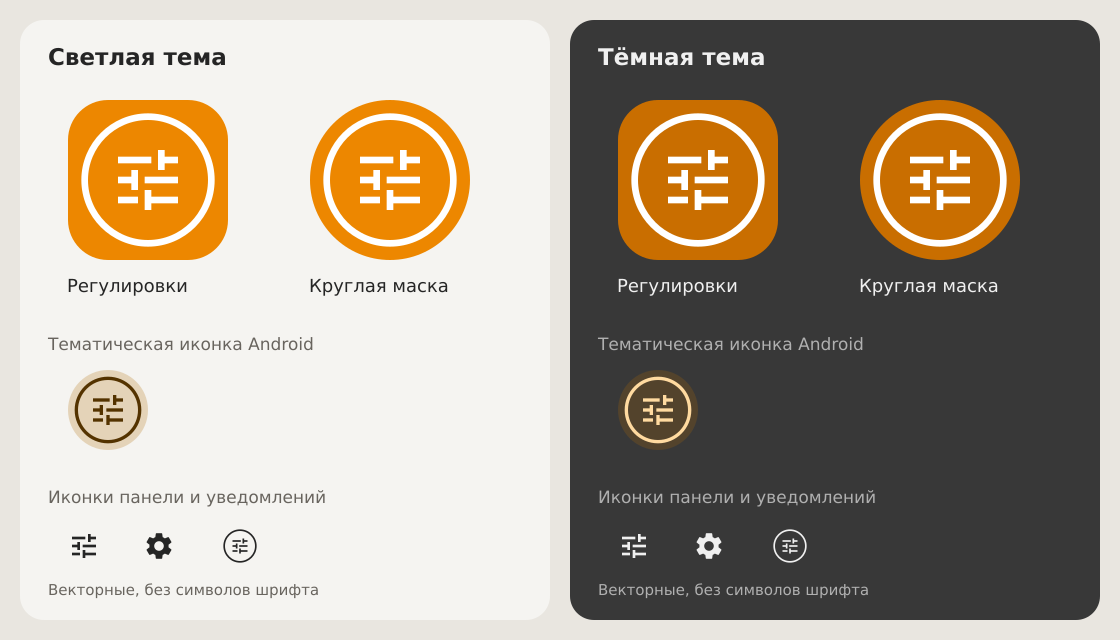
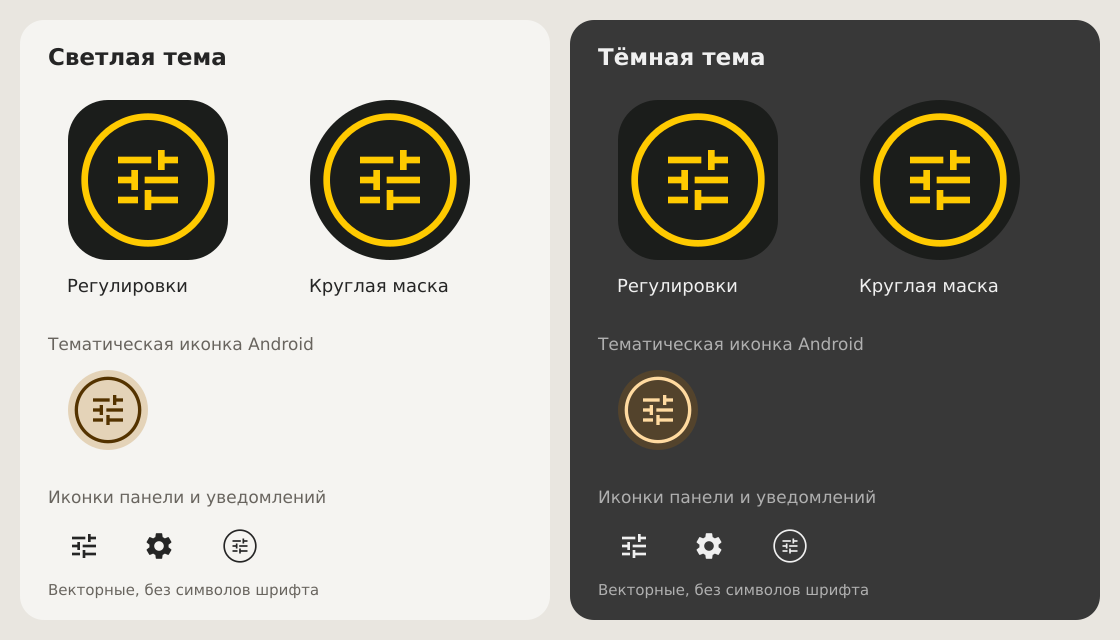
Подобраны цвета иконки Session EQ под оригинальный AIMP
Заменена оранжево-белая палитра обычной иконки на тёмный фон и жёлто-золотые регулировки в кольце. Размеры, контуры и отступы сохранены; системная монохромная маска выделена в отдельный ресурс. Обновлены превью и версия приложения до 0.4.2.

diff --git a/design/preview_icons.py b/design/preview_icons.py
@@ -13,7 +13,7 @@ res = root.parent / 'app/src/main/res'
 ns = '{http://schemas.android.com/apk/res/android}'
 
 def vector_paths(name, fill=None):
-    paths = []
+    colors={node.get('name'):node.text for node in ET.parse(res/'values/colors.xml').getroot()}
     def render(node):
         if node.tag == 'group':
             px,py=node.get(ns+'pivotX','0'),node.get(ns+'pivotY','0')
@@ -28,16 +28,13 @@ def vector_paths(name, fill=None):
             value = path.get(ns + android)
             if value:
                 if value == '#00000000': value = 'none'
-                elif value.startswith('@color/'): value = fill or '#252525'
+                elif value.startswith('@color/'): value = fill or colors[value.split('/')[1]]
                 elif fill and value == '#FFFFFF': value = fill
                 attrs[svg] = value
         return '<path ' + ' '.join(f'{k}="{html.escape(v)}"' for k,v in attrs.items()) + '/>'
     return render(ET.parse(res / 'drawable' / name).getroot())
 
 logo = vector_paths('ic_logo_foreground.xml')
-tune = vector_paths('ic_tune.xml', '#FFFFFF')
-ring = '<circle cx="54" cy="54" r="28.5" fill="none" stroke="white" stroke-width="3"/>'
-tune_logo = ring + '<g transform="translate(36 36) scale(1.5)">' + tune + '</g>'
 
 parts = ['<svg xmlns="http://www.w3.org/2000/svg" width="1120" height="640" viewBox="0 0 1120 640">',
          '<rect width="1120" height="640" fill="#E9E6E0"/>']
@@ -45,7 +42,7 @@ parts = ['<svg xmlns="http://www.w3.org/2000/svg" width="1120" height="640" view
 def text(s,x,y,size,fill,weight='400'):
     parts.append(f'<text x="{x}" y="{y}" font-family="DejaVu Sans,sans-serif" font-size="{size}" font-weight="{weight}" fill="{fill}">{html.escape(s)}</text>')
 
-for i, (bg,fg,muted,orange) in enumerate([('#F5F4F1','#252525','#68645E','#ED8700'),('#383838','#F0F0F0','#B0B0B0','#C96E00')]):
+for i, (bg,fg,muted,icon_background) in enumerate([('#F5F4F1','#252525','#68645E','#1B1D1B'),('#383838','#F0F0F0','#B0B0B0','#1B1D1B')]):
     x = 20+i*550
     parts.append(f'<rect x="{x}" y="20" width="530" height="600" rx="24" fill="{bg}"/>')
     text('Светлая тема' if i==0 else 'Тёмная тема',x+28,65,23,fg,'600')
@@ -54,7 +51,7 @@ for i, (bg,fg,muted,orange) in enumerate([('#F5F4F1','#252525','#68645E','#ED870
         parts.append(f'<svg x="{xx}" y="100" width="160" height="160" viewBox="18 18 72 72">')
         radius=18 if j==0 else 36
         parts.append(f'<defs><clipPath id="mask{i}{j}"><rect x="18" y="18" width="72" height="72" rx="{radius}"/></clipPath></defs>')
-        parts.append(f'<g clip-path="url(#mask{i}{j})"><rect x="18" y="18" width="72" height="72" fill="{orange}"/>{paths}</g></svg>')
+        parts.append(f'<g clip-path="url(#mask{i}{j})"><rect x="18" y="18" width="72" height="72" fill="{icon_background}"/>{paths}</g></svg>')
         text(label,xx-1,292,18,fg)
     text('Тематическая иконка Android',x+28,350,17,muted)
     parts.append(f'<svg x="{x+48}" y="370" width="80" height="80" viewBox="18 18 72 72"><rect x="18" y="18" width="72" height="72" rx="36" fill="'+('#E4D3B8' if i==0 else '#53432C')+'"/>'+vector_paths('ic_logo_foreground.xml', '#543300' if i==0 else '#FFDAA0')+'</svg>')

diff --git a/app/src/main/java/dev/local/sessioneq/MainActivity.java b/app/src/main/java/dev/local/sessioneq/MainActivity.java
@@ -115,7 +115,7 @@ public class MainActivity extends Activity {
                     state.enabled=false;state.save(this);
                     if(EqService.instance!=null)EqService.instance.shutdown();
                     finish();break;
-                case 7: new AlertDialog.Builder(this).setTitle("Session EQ 0.4.1")
+                case 7: new AlertDialog.Builder(this).setTitle("Session EQ 0.4.2")
                     .setMessage("20-полосный эквалайзер для аудиосессий других плееров.\n\nНезависимая реализация интерфейса, вдохновлённая AIMP. Значения пресетов AIMP Windows указаны отдельно. Иконки: Google Material Icons, Apache 2.0.\n\nКод приложения: Apache 2.0. Обработка — Android DynamicsProcessing; совпадение звучания с AIMP не измерено. Приложение не связано с разработчиками AIMP.\n\nПеретаскивай точки по горизонтали. Удерживай точку или нажми на число для точного ввода.\n\nРазрешение на микрофон и доступ в интернет не требуются.")
                     .setPositiveButton("Закрыть",null).show();break;
                 case 8: appearance();break;

diff --git a/app/src/main/java/dev/local/sessioneq/EqService.java b/app/src/main/java/dev/local/sessioneq/EqService.java
@@ -160,7 +160,7 @@ public class EqService extends Service {
     }
     public String status() { return latest; }
     public String diagnostics() {
-        StringBuilder b=new StringBuilder("Session EQ 0.4.1\n")
+        StringBuilder b=new StringBuilder("Session EQ 0.4.2\n")
             .append(Build.MANUFACTURER).append(' ').append(Build.MODEL)
             .append(" · Android ").append(Build.VERSION.RELEASE).append("\n\n")
             .append(latest).append("\n\nОбъектов эффектов: ").append(effects.size()).append('\n')

diff --git a/design/NOTICE.md b/design/NOTICE.md
@@ -4,6 +4,11 @@ The logo combines an original ring arrangement with the Material tune icon,
 following the user's selected design. The former E variant has been removed
 from the current application resources. No AIMP logo file is included.
 
+The regular launcher/splash palette is charcoal (`#1B1D1B`) with golden yellow
+ring and sliders (`#FFCA00`), visually matched to the user's AIMP reference.
+The icon geometry and scale are preserved. Notification and Android-themed
+monochrome variants remain separate masks for system tinting.
+
 The tune and settings icons are from Google's Material Icons project:
 
 - https://github.com/google/material-design-icons/blob/master/src/image/tune/materialicons/24px.svg
